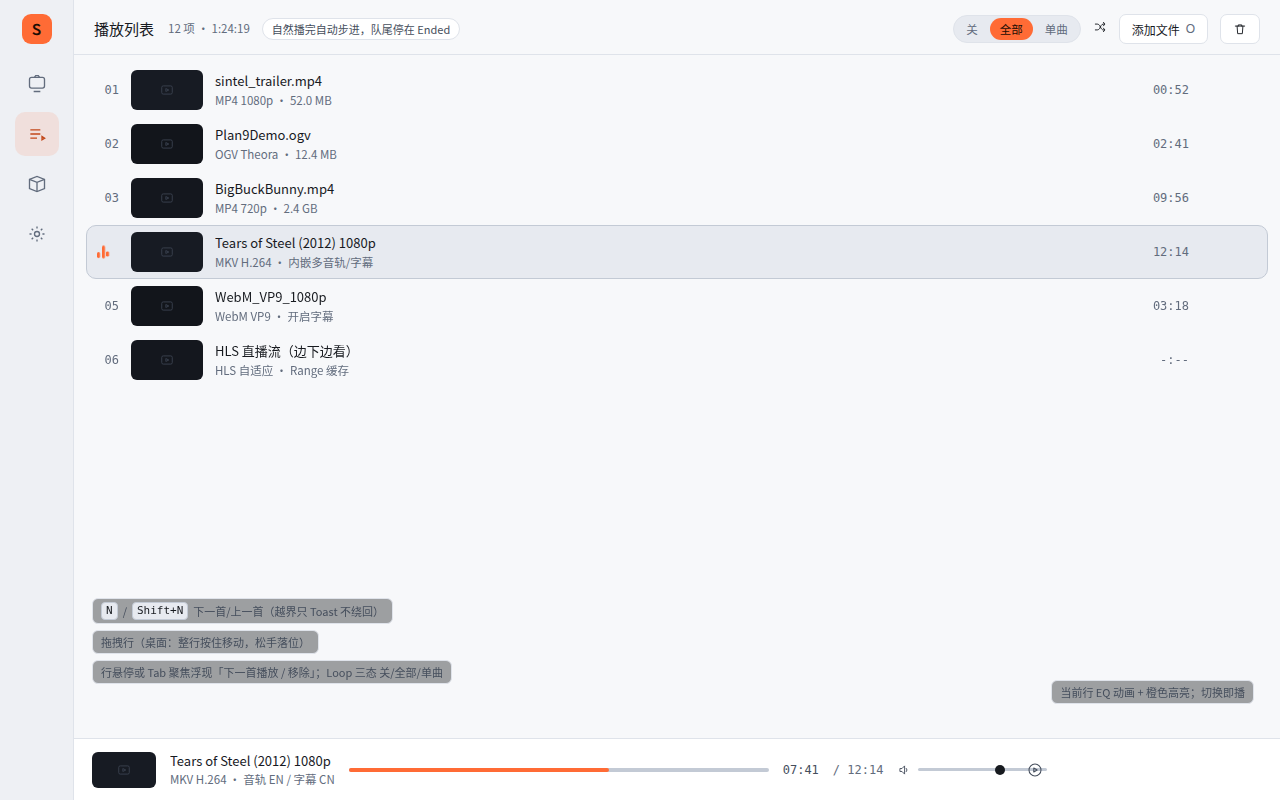
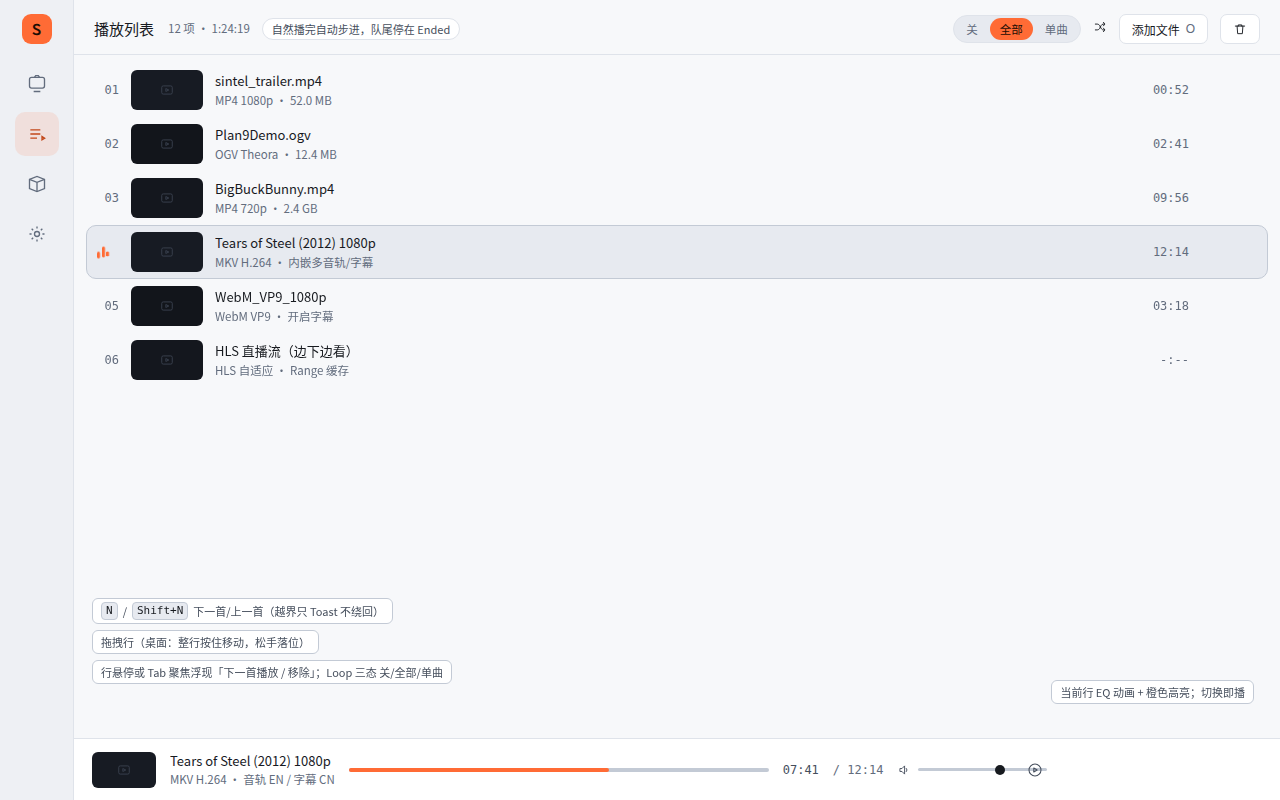
docs(prototypes): 亮色版外壳真浅色重做(v2.1 拍板)+进度槽 6px+注解合一，原型节进文档站
v2.1 复审拍板落地：暗色四页定稿；亮色版打回重做。外壳全部主题化，
视频画布与其上字幕属内容层两主题恒黑。

- desktop-main.html：topbar/statechip/OSC/暂停 pill 主题化（浅色=白底
  面板深字）；seg.on/seg.net/时间码 chip/状态条 P2P 引用改语义 token；
  进度槽 4px 到 6px（手柄 10 到 12px，两主题同步）；左上两块注解合并
  为 note.col 一块（密度收敛，自动隐藏说明保留）
- proto.css：.note 亮色白底覆盖（救三页注解浮层）+ .note.col 纵向
  变体 + 头注口径更新
- index.html：OSC 恒深旧表述改为外壳随主题；新增 v2.1 决策记录节
- 重出 5 张截图：desktop-main 亮暗 + playlist/settings/library 亮色
- docs：新增 prototypes.md（原型展示：预览表 + 关键帧 + 决策记录），
  nav/sidebar 加「原型」「原型展示」入口

Changed region(s): [[0.0625, 0.75, 0.375, 0.875], [0.8125, 0.8438, 1.0, 0.9062]]

diff --git a/docs/public/prototypes/redesign/desktop-main.html b/docs/public/prototypes/redesign/desktop-main.html
@@ -33,26 +33,33 @@
   white-space:nowrap;
 }
 
-/* ---- 顶栏 ---- */
+/* ---- 顶栏：外壳随主题（暗=透明浮在黑画面上，亮=真浅色条） ---- */
 .topbar {
+  --tb1:#eef1f5; --tb2:#cdd3dc; --tb3:#aeb6c2;
+  --tbh:rgba(255,255,255,.08); --tbbg:transparent; --tbline:transparent;
   position:absolute; top:0; left:0; right:0; z-index:10;
   display:flex; align-items:center; justify-content:space-between;
   padding:16px 22px;
+  background:var(--tbbg); border-bottom:1px solid var(--tbline);
+}
+:root[data-theme="light"] .topbar {
+  --tb1:#171a1f; --tb2:#454e5c; --tb3:#626c7d;
+  --tbh:rgba(23,26,31,.06); --tbbg:rgba(255,255,255,.92); --tbline:var(--line);
 }
 .topbar .meta { display:flex; align-items:center; gap:10px; min-width:0; }
-.topbar .title { font-size:13.5px; font-weight:600; letter-spacing:.01em; color:#eef1f5; }
+.topbar .title { font-size:13.5px; font-weight:600; letter-spacing:.01em; color:var(--tb1); }
 .topbar .film {
   position:absolute; left:50%; transform:translateX(-50%);
-  font-size:12.5px; color:#cdd3dc; white-space:nowrap;
+  font-size:12.5px; color:var(--tb2); white-space:nowrap;
 }
 .tools { display:flex; align-items:center; gap:6px; }
 .toolbtn {
   width:30px; height:30px; border-radius:var(--r-ctl); border:none; cursor:pointer;
-  background:transparent; color:#aeb6c2; display:flex; align-items:center; justify-content:center;
+  background:transparent; color:var(--tb3); display:flex; align-items:center; justify-content:center;
 }
-.toolbtn:hover { background:rgba(255,255,255,.08); color:#eef1f5; }
+.toolbtn:hover { background:var(--tbh); color:var(--tb1); }
 
-/* ---- 状态徽标：单处集中，不再顶栏/OSC 重复 ---- */
+/* ---- 状态徽标/浮层 pill：外壳随主题 ---- */
 .statechip {
   position:absolute; top:60px; left:50%; transform:translateX(-50%); z-index:11;
   display:flex; align-items:center; gap:7px; padding:5px 12px;
@@ -61,31 +68,49 @@
 }
 .statechip svg { width:12px; height:12px; fill:var(--ok); }
 .statechip.buffering svg { fill:var(--warn); }
+:root[data-theme="light"] .statechip {
+  background:rgba(255,255,255,.92); border-color:var(--line); color:var(--text-2);
+}
+.floatpill {
+  display:inline-flex; align-items:center; gap:6px; height:24px; padding:0 12px;
+  border-radius:999px; background:rgba(9,10,12,.72);
+  border:1px solid rgba(255,255,255,.10); color:#b9c0cb; font-size:12px;
+}
+:root[data-theme="light"] .floatpill {
+  background:rgba(255,255,255,.92); border-color:var(--line); color:var(--text-2);
+}
 
-/* ---- 悬浮 OSC（内容层，恒深） ---- */
+/* ---- 悬浮控制栏 OSC：外壳随主题（暗=深玻璃，亮=真浅色面板） ---- */
 .osc {
   --ot1:#eef1f5; --ot2:#aeb6c2; --ot3:#7d8593;
   --oline:rgba(255,255,255,.10); --ofill:rgba(255,255,255,.06);
   --otrack:#2e3540; --obuf:#3d4653;
+  --oscbg:rgba(10,11,14,.88); --octhumb:rgba(10,11,14,.9);
   position:absolute; left:50%; transform:translateX(-50%); bottom:26px; z-index:12;
   width:min(97%, 1240px);
-  border-radius:var(--r-panel); background:rgba(10,11,14,.88);
+  border-radius:var(--r-panel); background:var(--oscbg);
   border:1px solid var(--oline);
   box-shadow:var(--shadow-pop);
   backdrop-filter: blur(10px);
   padding:10px 14px 8px;
 }
+:root[data-theme="light"] .osc {
+  --ot1:#171a1f; --ot2:#454e5c; --ot3:#626c7d;
+  --oline:#dfe3ea; --ofill:rgba(23,26,31,.05);
+  --otrack:#d5dae2; --obuf:#b9c0cb;
+  --oscbg:rgba(255,255,255,.94); --octhumb:rgba(255,255,255,.95);
+}
 .seekrow { display:flex; align-items:center; gap:12px; }
 .seek-rail { flex:1; height:14px; display:flex; align-items:center; cursor:pointer; }
-.rail-line { position:relative; width:100%; height:4px; border-radius:99px; background:var(--otrack); }
+.rail-line { position:relative; width:100%; height:6px; border-radius:99px; background:var(--otrack); }
 .rail-line .played {
   position:absolute; left:0; top:0; bottom:0; width:63%;
   border-radius:99px; background:var(--accent);
 }
 .rail-line .played::after {
-  content:""; position:absolute; right:-5px; top:50%; transform:translateY(-50%);
-  width:10px; height:10px; border-radius:50%; background:var(--accent);
-  border:2px solid rgba(10,11,14,.9);
+  content:""; position:absolute; right:-6px; top:50%; transform:translateY(-50%);
+  width:12px; height:12px; border-radius:50%; background:var(--accent);
+  border:2px solid var(--octhumb);
 }
 .rail-line .buffer { position:absolute; left:63%; top:0; bottom:0; width:22%; border-radius:0 99px 99px 0; background:var(--obuf); }
 .timecode { font-family:var(--mono); font-size:12px; color:var(--ot2); white-space:nowrap; font-variant-numeric:tabular-nums; }
@@ -113,8 +138,8 @@
   border-radius:999px; border:1px solid var(--oline); background:var(--ofill);
   color:var(--ot2); font-size:11.5px; cursor:pointer;
 }
-.seg.on { background:var(--accent-soft); color:var(--orange-400); border-color:transparent; font-weight:600; }
-.seg.net { background:var(--net-soft); color:var(--sky-net); border-color:transparent; }
+.seg.on { background:var(--accent-soft); color:var(--accent-text); border-color:transparent; font-weight:600; }
+.seg.net { background:var(--net-soft); color:var(--net); border-color:transparent; }
 
 /* ---- 状态变体缩小帧 ---- */
 .mini { height:440px; }
@@ -163,7 +188,7 @@
 
     <div class="statechip">
       <svg viewBox="0 0 24 24"><path d="M7 5v14l12-7z"/></svg>
-      正在播放 01:23:30 / 01:25:44 <span style="color:var(--sky-net)">P2P 45%</span>
+      正在播放 01:23:30 / 01:25:44 <span style="color:var(--net)">P2P 45%</span>
     </div>
 
     <!-- 悬浮控制栏 OSC -->
@@ -174,7 +199,7 @@
           <div class="played"></div><div class="buffer"></div>
         </div></div>
         <span class="timecode">-00:02:14</span>
-        <span class="chip" style="background:rgba(255,255,255,.08); color:#aeb6c2;">1080p 60</span>
+        <span class="chip" style="background:var(--ofill); color:var(--ot2);">1080p 60</span>
       </div>
       <div class="brow">
         <button class="tsmall" title="上一首 (Shift+N)" aria-label="上一首">
@@ -201,8 +226,10 @@
     </div>
 
     <!-- 设计注解 -->
-    <div class="note" style="top:64px; left:22px;">OSC 2.5s 无输入自动隐藏 · 悬停/拖动/浮层/暂停时钉住</div>
-    <div class="note" style="top:94px; left:22px;"><kbd>Space</kbd> 播放/暂停 <kbd>←→</kbd> ±5s <kbd>F</kbd> 全屏</div>
+    <div class="note col" style="top:64px; left:22px;">
+      <span>OSC 2.5s 无输入自动隐藏 · 悬停/拖动/浮层/暂停时钉住</span>
+      <span><kbd>Space</kbd> 播放/暂停 <kbd>←→</kbd> ±5s <kbd>F</kbd> 全屏</span>
+    </div>
     <div class="note" style="bottom:170px; left:22px;"><span class="dot"></span>P2P 桥：下载/播放并行，种子离场本地续播</div>
     <div class="note" style="bottom:148px; right:22px;"><kbd>P</kbd> 队列 / <kbd>I</kbd> 信息 / <kbd>S</kbd> 截图</div>
   </div>
@@ -228,7 +255,7 @@
           <button style="width:64px; height:64px; border-radius:50%; border:none; cursor:pointer; background:var(--accent); color:var(--ink-on-accent); display:flex; align-items:center; justify-content:center;" aria-label="继续播放">
             <svg viewBox="0 0 24 24" width="26" height="26" fill="currentColor"><path d="M8 5.6v12.8L19 12z"/></svg>
           </button>
-          <span class="pill" style="background:rgba(9,10,12,.72); border-color:rgba(255,255,255,.10); color:#b9c0cb; height:24px; font-size:12px;">已暂停 · Space 或点击继续</span>
+          <span class="pill floatpill">已暂停 · Space 或点击继续</span>
         </div>
         <div class="osc" style="bottom:20px;">
           <div class="seekrow">

diff --git a/docs/public/prototypes/redesign/index.html b/docs/public/prototypes/redesign/index.html
@@ -134,7 +134,7 @@ table.cmp td.pg { color:var(--text-1); font-weight:600; white-space:nowrap; }
       <li><b>假画面改真占位：</b>三层渐变「光带」改为纯黑画面 + 字幕行。播放器的视频区本该是内容，占位阶段一块纯黑加一行字幕比伪造的渐变画面更诚实，也更像播放器。</li>
       <li><b>状态归一处：</b>顶栏三 pill + 状态条 + OSC 分辨率 chip 五处收敛为两处：顶栏居中只放片名，状态条集中「正在播放 + 时间 + P2P 45%」，分辨率留在 OSC（它本来就是播放参数）。</li>
       <li><b>去光环：</b>主播放键删 4px 光环，播放/暂停态用底色翻转表达；进度手柄删光晕，改 2px 深色描边保证在任何画面上可见。</li>
-      <li><b>OSC 定为内容层：</b>亮色主题下悬浮在视频上的控制条保持深色，与 IINA/mpv 等真实播放器一致。</li>
+      <li><b>外壳随主题（v2.1 修订）：</b>悬浮 OSC 属控制栏外壳，亮色主题下改真浅色面板（深字浅底），不再沿用 v2 的「恒深」口径；仅视频画布与其上的字幕保持内容层恒黑。</li>
     </ul>
   </div>
 
@@ -165,6 +165,17 @@ table.cmp td.pg { color:var(--text-1); font-weight:600; white-space:nowrap; }
       <li><b>卡片减动效：</b>hover 上浮 2px 改仅边框加深；play-badge 同步支持 focus-within 触达。</li>
       <li><b>下载态信息升级：</b>「已下载 · 种子离场可续播」从 10px 标题混排改为独立 11.5px 网络语义行；进度「45%」从 sup 角标改为正文行。</li>
       <li><b>海报占位纯色：</b>三档深浅纯色 + 细线胶片字形，网格整体节奏靠色块深浅交替，不再靠渐变云带。</li>
+    </ul>
+  </div>
+
+  <h2>v2.1 复审拍板（2026-10-07）</h2>
+  <div class="why">
+    <h3>结论</h3>
+    <ul>
+      <li><b>暗色四页通过，定稿。</b></li>
+      <li><b>亮色版打回重做（本版完成）：</b>v2 亮色版名实不符，外壳仍整面深色。v2.1 把外壳全部主题化：顶栏（白底浅条）、状态徽标与浮层 pill（白底 pill）、注解浮层（白底）、OSC 控制栏（浅色面板 + 深字）、进度槽（浅轨道）；视频画布与其上的字幕属内容层，两主题恒黑，这是真实播放器的正常形态，不算「假亮色」。</li>
+      <li><b>小改两项：</b>主播放窗进度槽 4px 加粗到 6px（手柄 10px 到 12px，两主题同步）；左上注解两块合一（信息密度收敛，自动隐藏机制说明保留，一次不糊四块）。</li>
+      <li><b>复审范围：</b>重出亮色四页截图 + 主播放窗暗色截图（进度槽同步），其余暗色三页维持原稿。</li>
     </ul>
   </div>
 

diff --git a/docs/public/prototypes/redesign/assets/proto.css b/docs/public/prototypes/redesign/assets/proto.css
@@ -7,8 +7,9 @@
    - 单强调色锁：信号橙只作播放/交互强调；天蓝仅保留「网络/P2P」语义
    - 字号地板 11px：废除 10/10.5px 小字，层级改由 字号+字重 承担
    - 圆角体系成文：面板 10 / 控件 7 / 徽标 pill / 图标钮圆形
-   - 亮暗双主题：html[data-theme] 切换；视频画面与悬浮 OSC 属内容层，
-     两主题下恒为深色（与真实播放器一致）
+   - 亮暗双主题：html[data-theme] 切换；视频画布属内容层两主题恒黑，
+     外壳（顶栏/控制栏/浮层底/进度槽）随主题，亮色版外壳真浅色
+     （v2.1 复审拍板：亮色版整面深色打回重做）
    - 动效守卫：所有无限动画包 prefers-reduced-motion
    - 可见分隔符配额：每行中点 · ≤1 个；全文无 em-dash
    ============================================================ */
@@ -182,6 +183,14 @@ input[type="range"]::-webkit-slider-thumb {
   border-radius: 4px; padding: 0 4px;
 }
 .note .dot { width: 5px; height: 5px; border-radius: 50%; background: var(--net); }
+/* 合并块：两行纵向排布（左上密度收敛，一次不糊四块） */
+.note.col { flex-direction: column; align-items: flex-start; gap: 3px; }
+/* 亮色下浮层底真浅色（v2.1 复审拍板）；暗色维持暗 scrim */
+:root[data-theme="light"] .note {
+  background: rgba(255, 255, 255, 0.92);
+  border-color: var(--line-strong);
+  color: var(--text-2);
+}
 
 /* ---------- 状态变体区 ---------- */
 .states {

diff --git a/docs/prototypes.md b/docs/prototypes.md
@@ -1,0 +1,56 @@
+# 原型展示
+
+> 桌面播放器 v2 重设计稿：主播放窗 / 播放列表 / 设置面板 / 媒体库四页，亮暗双主题。
+> 以下是**设计稿**（HTML/CSS 原型，`docs/public/prototypes/` 下的静态页），不是产品代码；
+> 实现落点见 [UI 设计](/ui-design)。品牌位为中性占位（纯色橙块 + S 字），非正式 logo。
+
+## 在线预览
+
+每页均支持 `?theme=light|dark` 参数或页内按钮切换主题。截图为 1280×800 静态帧。
+
+| 页面 | 交互原型 | 暗色截图 | 亮色截图 |
+| --- | --- | --- | --- |
+| 主播放窗 | [打开](/prototypes/redesign/desktop-main.html) | [暗](/prototypes/redesign/desktop-main-dark.png) | [亮](/prototypes/redesign/desktop-main-light.png) |
+| 播放列表 | [打开](/prototypes/redesign/playlist.html) | [暗](/prototypes/redesign/playlist-dark.png) | [亮](/prototypes/redesign/playlist-light.png) |
+| 设置面板 | [打开](/prototypes/redesign/settings.html) | [暗](/prototypes/redesign/settings-dark.png) | [亮](/prototypes/redesign/settings-light.png) |
+| 媒体库 | [打开](/prototypes/redesign/library.html) | [暗](/prototypes/redesign/library-dark.png) | [亮](/prototypes/redesign/library-light.png) |
+
+完整说明（旧稿丑点清单、逐页改动理由）见 [重设计总览](/prototypes/redesign/index.html)。
+
+## 关键帧
+
+### 主播放窗（亮色）
+
+![主播放窗 亮色](/prototypes/redesign/desktop-main-light.png)
+
+外壳（顶栏 / 状态徽标 / 控制栏 / 注解浮层 / 进度槽）随主题用浅色；视频画布与其上的字幕属内容层，两主题恒黑。
+
+### 主播放窗（暗色）
+
+![主播放窗 暗色](/prototypes/redesign/desktop-main-dark.png)
+
+### 设置面板（亮色）
+
+![设置面板 亮色](/prototypes/redesign/settings-light.png)
+
+### 媒体库（亮色）
+
+![媒体库 亮色](/prototypes/redesign/library-light.png)
+
+### 播放列表（亮色）
+
+![播放列表 亮色](/prototypes/redesign/playlist-light.png)
+
+## 决策记录
+
+### v2.1 复审拍板（2026-10-07）
+
+- **暗色四页通过，定稿。**
+- **亮色版打回重做（本版完成）**：v2 亮色版名实不符，外壳仍整面深色。v2.1 把外壳全部主题化：顶栏、状态徽标与浮层 pill、注解浮层、OSC 控制栏、进度槽在亮色主题下都用真浅色；视频画布与其上的字幕属内容层两主题恒黑（真实播放器的正常形态，不算「假亮色」）。
+- **小改两项**：主播放窗进度槽 4px 加粗到 6px（手柄 10px 到 12px，两主题同步）；左上注解两块合一（信息密度收敛；OSC 自动隐藏机制说明保留，一次不糊四块）。
+- **复审范围**：重出亮色四页截图 + 主播放窗暗色截图（进度槽同步），其余暗色三页维持原稿。
+
+### v2 重设计口径（2026-10-06）
+
+- redesign-preserve：结构与信息架构不动，视觉语言收敛（渐变清零、单一信号橙强调，天蓝仅保留网络/P2P 语义、字号地板 11px、圆角成文，面板 10 / 控件 7 / 徽标 pill / 图标钮圆形、无限动画包 `prefers-reduced-motion` 守卫）。
+- 设计令牌三层（原始层 / 语义层 / 组件层），组件不吃裸色值；对比度按 WCAG AA 校验（元信息档暗底 6.0:1、亮底 4.8:1）。
